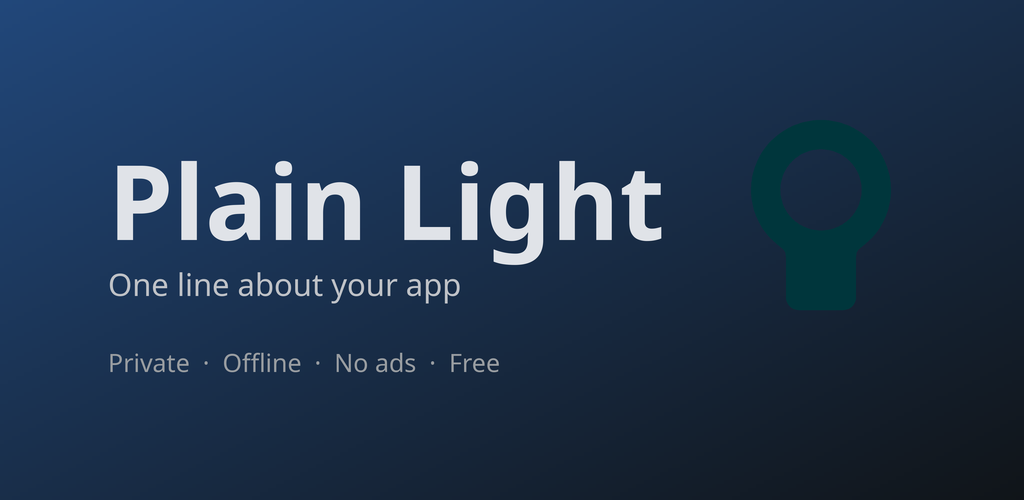
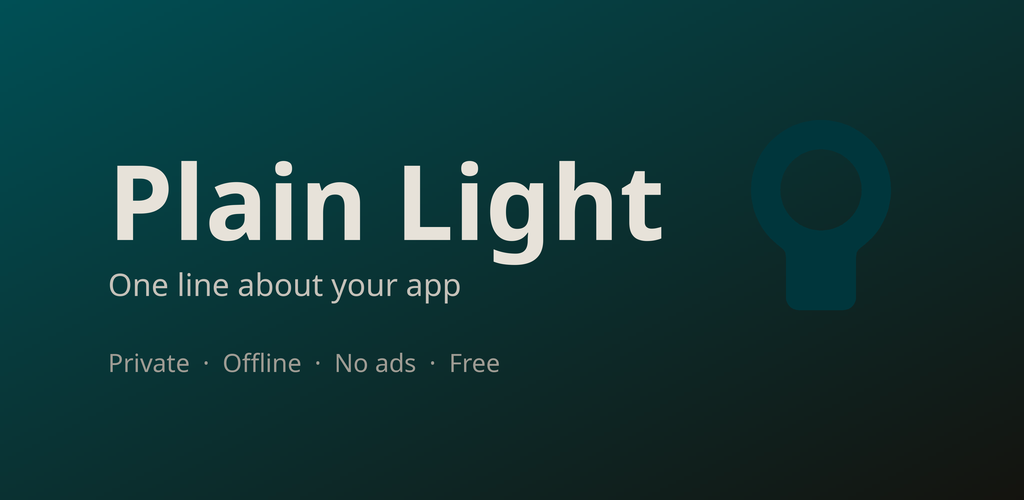
feat: give the app its own palette, teal on warm paper

diff --git a/app/src/main/java/app/plainlight/theme/Color.kt b/app/src/main/java/app/plainlight/theme/Color.kt
@@ -12,10 +12,10 @@ import androidx.compose.ui.graphics.Color
 // with the rest of its family, and the failure shows up as a contrast bug on one
 // screen out of thirty rather than as a visible mistake here.
 //
-//   primary   #4C6FA5  — brand: filled buttons, FAB, selected tab
-//   secondary #6B7A8F  — quiet containers: chips, tonal buttons, selected segment
-//   tertiary  #9A6BA5  — accents and caution markers, used sparingly
-//   neutral   #DCDFE4  — seeds every surface, so it decides warm or cool overall
+//   primary   #006A71  — brand: filled buttons, FAB, selected tab
+//   secondary #4F6366  — quiet containers: chips, tonal buttons, selected segment
+//   tertiary  #F9BE11  — accents and caution markers, used sparingly
+//   neutral   #F4EFE6  — seeds every surface, so it decides warm or cool overall
 //
 // Error stays M3 baseline (hue 25, chroma 84): a safety signal, not a brand choice.
 //
@@ -25,79 +25,79 @@ import androidx.compose.ui.graphics.Color
 
 private val AppLightColors =
     lightColorScheme(
-        primary = Color(0xFF3B5F94),
+        primary = Color(0xFF006970),
         onPrimary = Color(0xFFFFFFFF),
-        primaryContainer = Color(0xFFD4E3FF),
-        onPrimaryContainer = Color(0xFF001B3E),
-        inversePrimary = Color(0xFFA6C8FF),
-        secondary = Color(0xFF515F73),
+        primaryContainer = Color(0xFFA0EFF7),
+        onPrimaryContainer = Color(0xFF002022),
+        inversePrimary = Color(0xFF84D3DB),
+        secondary = Color(0xFF4E6265),
         onSecondary = Color(0xFFFFFFFF),
-        secondaryContainer = Color(0xFFD4E3FB),
-        onSecondaryContainer = Color(0xFF0D1C2E),
-        tertiary = Color(0xFF7A4E85),
+        secondaryContainer = Color(0xFFD1E7EA),
+        onSecondaryContainer = Color(0xFF0A1E21),
+        tertiary = Color(0xFF795900),
         onTertiary = Color(0xFFFFFFFF),
-        tertiaryContainer = Color(0xFFFDD6FF),
-        onTertiaryContainer = Color(0xFF30073D),
+        tertiaryContainer = Color(0xFFFFDF97),
+        onTertiaryContainer = Color(0xFF261A00),
         error = Color(0xFFBA1B1B),
         onError = Color(0xFFFFFFFF),
         errorContainer = Color(0xFFFFDAD4),
         onErrorContainer = Color(0xFF410001),
-        background = Color(0xFFF6F9FE),
-        onBackground = Color(0xFF181C20),
-        surface = Color(0xFFF6F9FE),
-        onSurface = Color(0xFF181C20),
-        surfaceVariant = Color(0xFFDEE3EA),
-        onSurfaceVariant = Color(0xFF41474D),
-        surfaceDim = Color(0xFFD7DADF),
-        surfaceBright = Color(0xFFF6F9FE),
+        background = Color(0xFFFEF9F0),
+        onBackground = Color(0xFF1D1C16),
+        surface = Color(0xFFFEF9F0),
+        onSurface = Color(0xFF1D1C16),
+        surfaceVariant = Color(0xFFE8E2D0),
+        onSurfaceVariant = Color(0xFF4A4739),
+        surfaceDim = Color(0xFFDED9D1),
+        surfaceBright = Color(0xFFFEF9F0),
         surfaceContainerLowest = Color(0xFFFFFFFF),
-        surfaceContainerLow = Color(0xFFF1F4F9),
-        surfaceContainer = Color(0xFFEBEEF3),
-        surfaceContainerHigh = Color(0xFFE5E8ED),
-        surfaceContainerHighest = Color(0xFFE0E3E8),
-        inverseSurface = Color(0xFF2D3135),
-        inverseOnSurface = Color(0xFFEEF1F6),
-        outline = Color(0xFF72787E),
-        outlineVariant = Color(0xFFC1C7CE),
+        surfaceContainerLow = Color(0xFFF8F3EA),
+        surfaceContainer = Color(0xFFF2EDE4),
+        surfaceContainerHigh = Color(0xFFECE7DE),
+        surfaceContainerHighest = Color(0xFFE7E2D9),
+        inverseSurface = Color(0xFF32302A),
+        inverseOnSurface = Color(0xFFF5F0E7),
+        outline = Color(0xFF7B7768),
+        outlineVariant = Color(0xFFCBC6B5),
         scrim = Color(0xFF000000),
     )
 
 private val AppDarkColors =
     darkColorScheme(
-        primary = Color(0xFFA6C8FF),
-        onPrimary = Color(0xFF003062),
-        primaryContainer = Color(0xFF21477A),
-        onPrimaryContainer = Color(0xFFD4E3FF),
-        inversePrimary = Color(0xFF3B5F94),
-        secondary = Color(0xFFB8C8DF),
-        onSecondary = Color(0xFF223143),
-        secondaryContainer = Color(0xFF39485B),
-        onSecondaryContainer = Color(0xFFD4E3FB),
-        tertiary = Color(0xFFEAB4F4),
-        onTertiary = Color(0xFF481F54),
-        tertiaryContainer = Color(0xFF60366C),
-        onTertiaryContainer = Color(0xFFFDD6FF),
+        primary = Color(0xFF84D3DB),
+        onPrimary = Color(0xFF00363B),
+        primaryContainer = Color(0xFF004F55),
+        onPrimaryContainer = Color(0xFFA0EFF7),
+        inversePrimary = Color(0xFF006970),
+        secondary = Color(0xFFB5CACD),
+        onSecondary = Color(0xFF203336),
+        secondaryContainer = Color(0xFF364A4D),
+        onSecondaryContainer = Color(0xFFD1E7EA),
+        tertiary = Color(0xFFF9BE11),
+        onTertiary = Color(0xFF3F2E00),
+        tertiaryContainer = Color(0xFF5C4300),
+        onTertiaryContainer = Color(0xFFFFDF97),
         error = Color(0xFFFFB4A9),
         onError = Color(0xFF680003),
         errorContainer = Color(0xFF930006),
         onErrorContainer = Color(0xFFFFDAD4),
-        background = Color(0xFF101418),
-        onBackground = Color(0xFFE0E3E8),
-        surface = Color(0xFF101418),
-        onSurface = Color(0xFFE0E3E8),
-        surfaceVariant = Color(0xFF41474D),
-        onSurfaceVariant = Color(0xFFC1C7CE),
-        surfaceDim = Color(0xFF101418),
-        surfaceBright = Color(0xFF363A3E),
-        surfaceContainerLowest = Color(0xFF0B0F12),
-        surfaceContainerLow = Color(0xFF181C20),
-        surfaceContainer = Color(0xFF1C2024),
-        surfaceContainerHigh = Color(0xFF262A2E),
-        surfaceContainerHighest = Color(0xFF313539),
-        inverseSurface = Color(0xFFE0E3E8),
-        inverseOnSurface = Color(0xFF2D3135),
-        outline = Color(0xFF8B9198),
-        outlineVariant = Color(0xFF41474D),
+        background = Color(0xFF14130E),
+        onBackground = Color(0xFFE7E2D9),
+        surface = Color(0xFF14130E),
+        onSurface = Color(0xFFE7E2D9),
+        surfaceVariant = Color(0xFF4A4739),
+        onSurfaceVariant = Color(0xFFCBC6B5),
+        surfaceDim = Color(0xFF14130E),
+        surfaceBright = Color(0xFF3B3933),
+        surfaceContainerLowest = Color(0xFF0F0E09),
+        surfaceContainerLow = Color(0xFF1D1C16),
+        surfaceContainer = Color(0xFF21201A),
+        surfaceContainerHigh = Color(0xFF2C2A24),
+        surfaceContainerHighest = Color(0xFF36352F),
+        inverseSurface = Color(0xFFE7E2D9),
+        inverseOnSurface = Color(0xFF32302A),
+        outline = Color(0xFF959181),
+        outlineVariant = Color(0xFF4A4739),
         scrim = Color(0xFF000000),
     )
 

diff --git a/scripts/gen_scheme.py b/scripts/gen_scheme.py
@@ -17,10 +17,10 @@ is the one with the widest reach.
 import sys
 from hct import TonalPalette, argb_from_hex, hex_from_argb, xyz_from_argb
 
-SEED_PRIMARY = "4C6FA5"    # Slate blue
-SEED_SECONDARY = "6B7A8F"  # Muted steel
-SEED_TERTIARY = "9A6BA5"   # Heather
-SEED_NEUTRAL = "DCDFE4"    # Cool grey
+SEED_PRIMARY = "006A71"    # Teal
+SEED_SECONDARY = "4F6366"  # Grey teal
+SEED_TERTIARY = "F9BE11"   # Lamp yellow, the icon's own
+SEED_NEUTRAL = "F4EFE6"    # Warm paper
 
 PACKAGE = "app.plainlight"  # the Kotlin package root; bootstrap.py rewrites this
 

diff --git a/docs/DOD.md b/docs/DOD.md
@@ -38,7 +38,7 @@ close. Whenever `APP_SCHEMA_VERSION` changes, all five hold before the release g
 - [x] **Decide `minSdk` deliberately, before launch.** 26, kept on 2026-11-11: CI and the `urgent-api26`
       emulator exercise it, and BLE advertising needs nothing newer. The reason sits beside `minSdk`.
 - [x] **Replace the placeholder mark.** Bulb on yellow, 2026-11-11; provenance in `art/README.md`.
-      Its two colours are the icon's own until the palette (below) is chosen around them.
+      The palette's tertiary seed is the icon's yellow.
 - [x] **Replace the placeholder domain.** Items deleted 2026-11-11; the home screen is an empty **Lights** list.
 - [ ] **Rewrite `scripts/edge-to-edge.py`'s SCENES** against your screens. Until then the nightly
       walks screens that do not exist, and `screenshots.py` cannot shoot a listing.
@@ -46,8 +46,7 @@ close. Whenever `APP_SCHEMA_VERSION` changes, all five hold before the release g
       EXPECTED_ORIENTATION describe the template. Run all four `aab-*.py` scripts against a local
       `bundleRelease` **before the first tag** — the first app built from it found its stale table in the publish
       workflow, after the tag, with the version already spent.
-- [ ] **Choose the palette.** Four seeds in `scripts/gen_scheme.py`, regenerate `theme/Color.kt`,
-      read the contrast report it prints on stderr.
+- [x] **Choose the palette.** Teal on warm paper, 2026-11-11; the seeds are in `scripts/gen_scheme.py`.
 - [ ] **Make the support address work both ways.** `bootstrap.py` compiled in
       `<repo>.support@maksforge.com` (or `--support`) and wrote it into the site, the privacy policy
       and the Play docs. Mail to it arrives through the domain's catch-all; replying from it needs the
